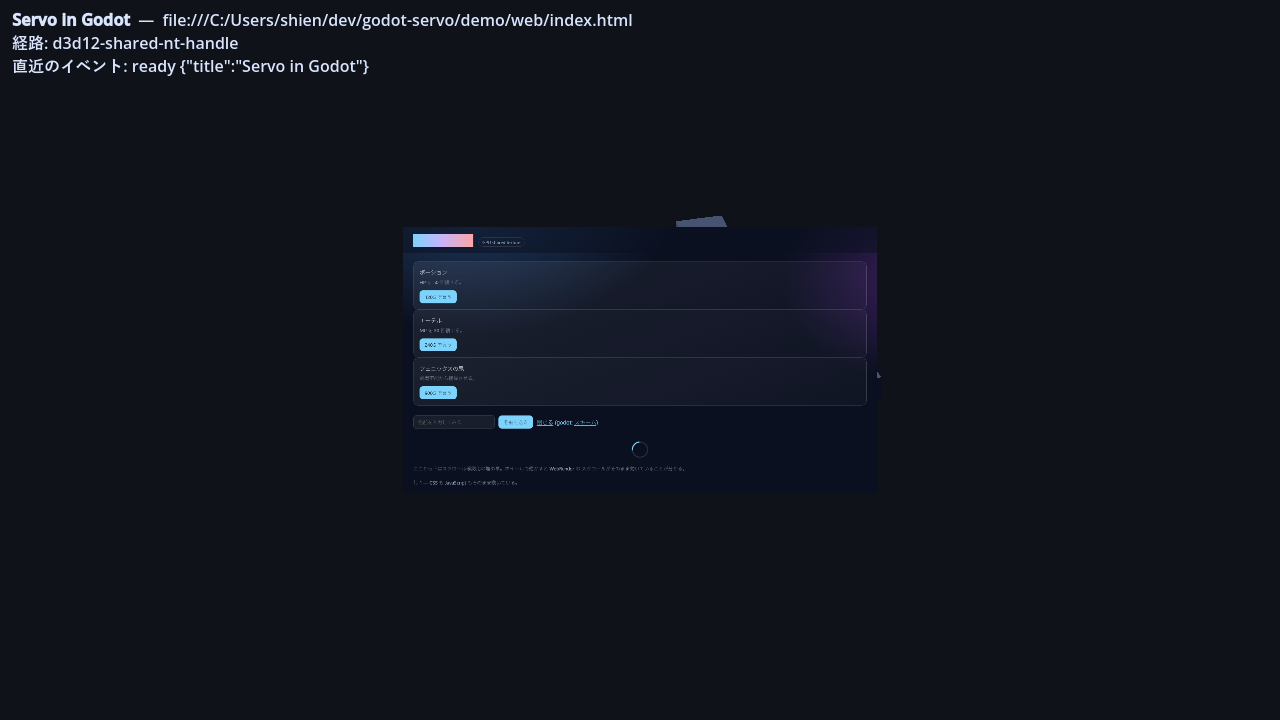
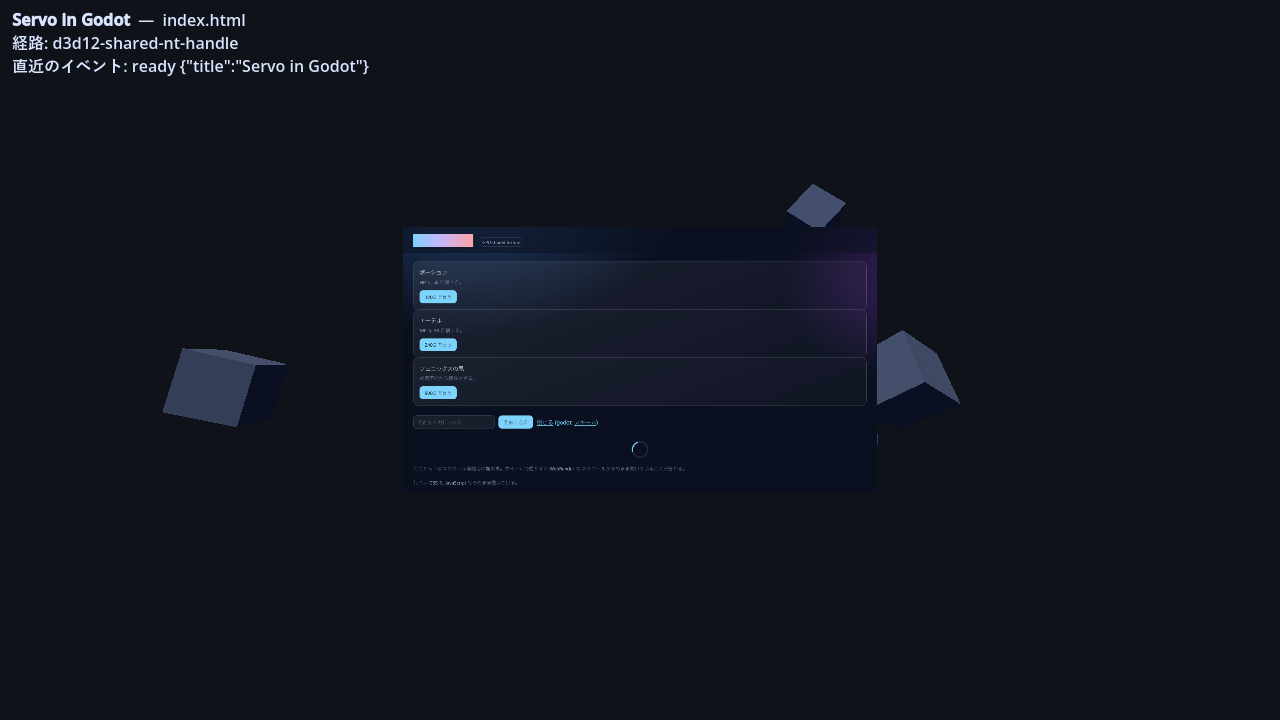
Add MIT/Apache-2.0 licensing and keep local paths out of the demo HUD
Without a license file the repository would be all-rights-reserved once
public, so nobody could use or fork it. Servo is MPL-2.0, but this crate
depends on it without modifying it, so the file-level copyleft does not
reach a user's own code and the usual Rust dual license applies.

The demo HUD printed the full file:// URL, which put a local absolute path
into both screenshots. It now shows the filename for file:// URLs.

diff --git a/README.md b/README.md
@@ -284,4 +284,9 @@ driver has no such restriction, so that path passes the texture directly.
 
 ## License
 
-Servo is MPL-2.0.
+Licensed under either of [Apache License 2.0](LICENSE-APACHE) or
+[MIT license](LICENSE-MIT) at your option.
+
+Servo itself is MPL-2.0. This crate depends on it without modifying it, so the file-level copyleft
+does not reach your own code. The three.js builds vendored under `demo/web/vendor/` are MIT and
+carry their original license headers.
